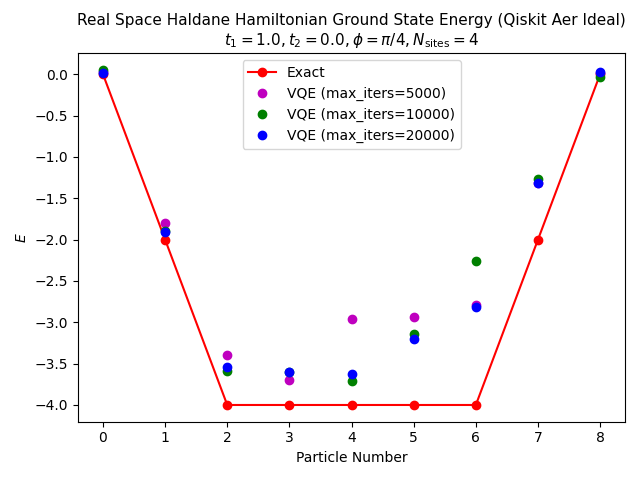
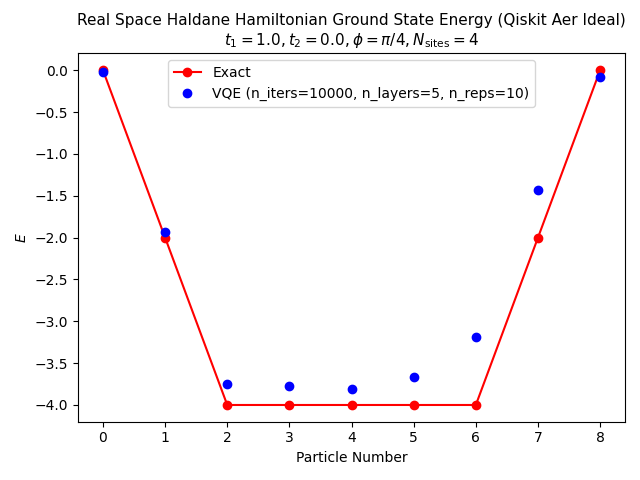
First test with optimizations

diff --git a/scripts/haldane-model/real_space_simulated_ideal_EP.py b/scripts/haldane-model/real_space_simulated_ideal_EP.py
@@ -6,27 +6,24 @@ import json
 from qiskit_nature.second_q.mappers import JordanWignerMapper
 from joblib import Parallel, delayed
 
-n_sites = 6
-t1, t2, phi = 1.0, 0.05, np.pi/4
+n_sites = 4
+t1, t2, phi = 1.0, 0.0, np.pi/4
 spin = 2
 mapper = JordanWignerMapper()
-max_iters = 20000
+n_iters, n_layers, n_reps = 10000, 5, 10
 
 jobs = []
 for n_occ in range(spin * n_sites + 1):
     jobs.append(delayed(real_space_exact)(n_sites, t1, t2, phi, n_occ))
-    jobs.append(delayed(real_space_vqe)(n_sites, t1, t2, phi, n_occ, mapper, max_iters // 4, n_layers=5))
-    jobs.append(delayed(real_space_vqe)(n_sites, t1, t2, phi, n_occ, mapper, max_iters // 2, n_layers=5))
-    jobs.append(delayed(real_space_vqe)(n_sites, t1, t2, phi, n_occ, mapper, max_iters, n_layers=5))
+    for _ in range(n_reps):
+        jobs.append(delayed(real_space_vqe)(n_sites, t1, t2, phi, n_occ, mapper, n_iters, n_layers=n_layers))
 
 results = Parallel(n_jobs=-1)(jobs)
-exact, vqe1, vqe2, vqe3 = results[0::4], results[1::4], results[2::4], results[3::4]
+exact, vqe = results[0::n_reps+1], [min(results[i:i+n_reps]) for i in range(1, len(results), n_reps+1)]
 
 data = {
     "exact": {i: exact[i] for i in range(spin*n_sites+1)},
-    "vqe1": {i: vqe1[i] for i in range(spin*n_sites+1)},
-    "vqe2": {i: vqe2[i] for i in range(spin*n_sites+1)},
-    "vqe3": {i: vqe3[i] for i in range(spin*n_sites+1)}
+    "vqe": {i: vqe[i] for i in range(spin*n_sites+1)}
 }
 
 file_path = os.path.join(os.getcwd(), "..", "..", "cache/haldane-model/real-space/"+str(n_sites)+"-sites/simulated-ideal-EP-t2-"+str(t2)+".json")
@@ -35,9 +32,7 @@ with open(file_path, "w") as f:
 
 plt.figure()
 plt.plot(range(spin*n_sites+1), data["exact"].values(), 'ro-', label="Exact")
-plt.plot(range(spin*n_sites+1), data["vqe1"].values(), 'mo', label=f"VQE (max_iters={max_iters // 4})")
-plt.plot(range(spin*n_sites+1), data["vqe2"].values(), 'go', label=f"VQE (max_iters={max_iters // 2})")
-plt.plot(range(spin*n_sites+1), data["vqe3"].values(), 'bo', label=f"VQE (max_iters={max_iters})")
+plt.plot(range(spin*n_sites+1), data["vqe"].values(), 'bo', label=f"VQE (n_iters={n_iters}, n_layers={n_layers}, n_reps={n_reps})")
 plt.legend()
 plt.xlabel("Particle Number")
 plt.ylabel("$E$")
